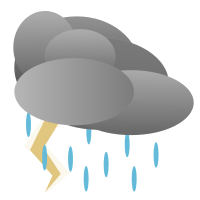
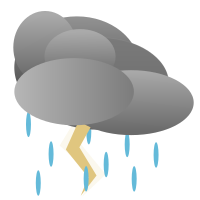
Hailey - changed thunderstormIcon again

Changed region(s): [[0.15, 0.6, 0.3, 0.99], [0.33, 0.6, 0.48, 0.99]]

diff --git a/main.py b/main.py
@@ -133,6 +133,7 @@ class Main:
         hourlyWindSpeedArr = hourlyDict["HourlyWindSpeed"]
         hourlyWindDirArr = hourlyDict["HourlyWindDir"]
 
+        
         now = datetime.now()
         hour = int(now.hour)
         hourNew = hour
@@ -295,7 +296,8 @@ class Main:
                 dayStr = self.days[currDayIndex]
 
             # Variable Declarations
-            dailyWeatherCode = dailyWeatherCodeArr[i]
+            #dailyWeatherCode = dailyWeatherCodeArr[i]
+            dailyWeatherCode = 13
             dailyTempMax = int(dailyTempMaxArr[i])
             dailyTempMaxStr = str(dailyTempMax) + "\u00B0F"
             dailyTempMin = int(dailyTempMinArr[i])
